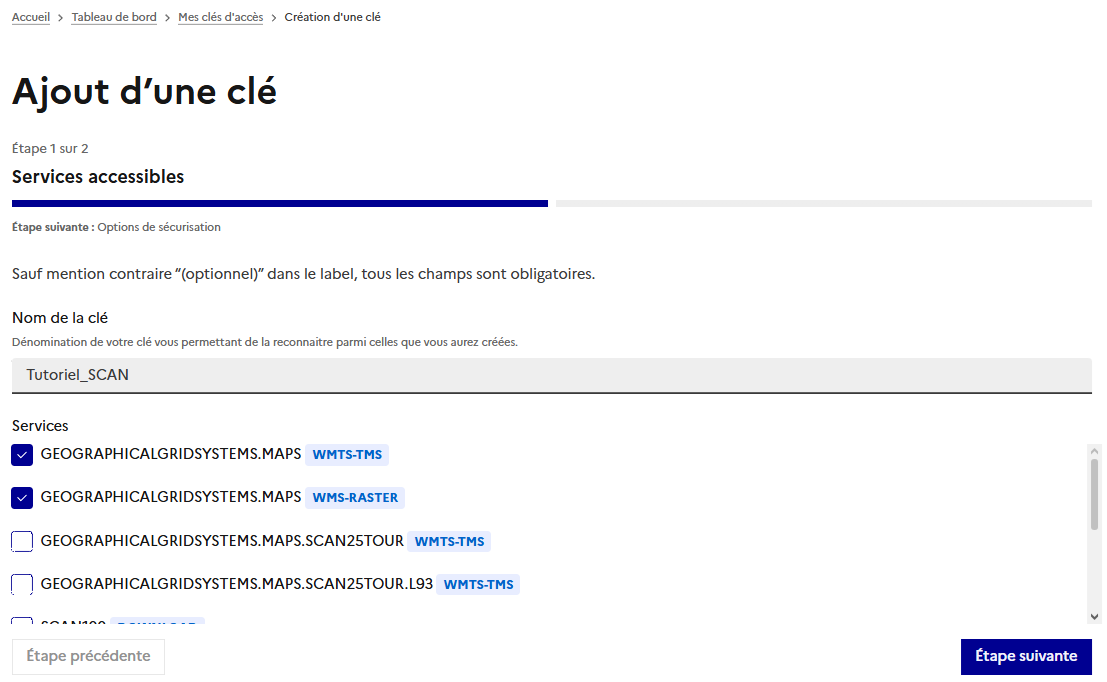
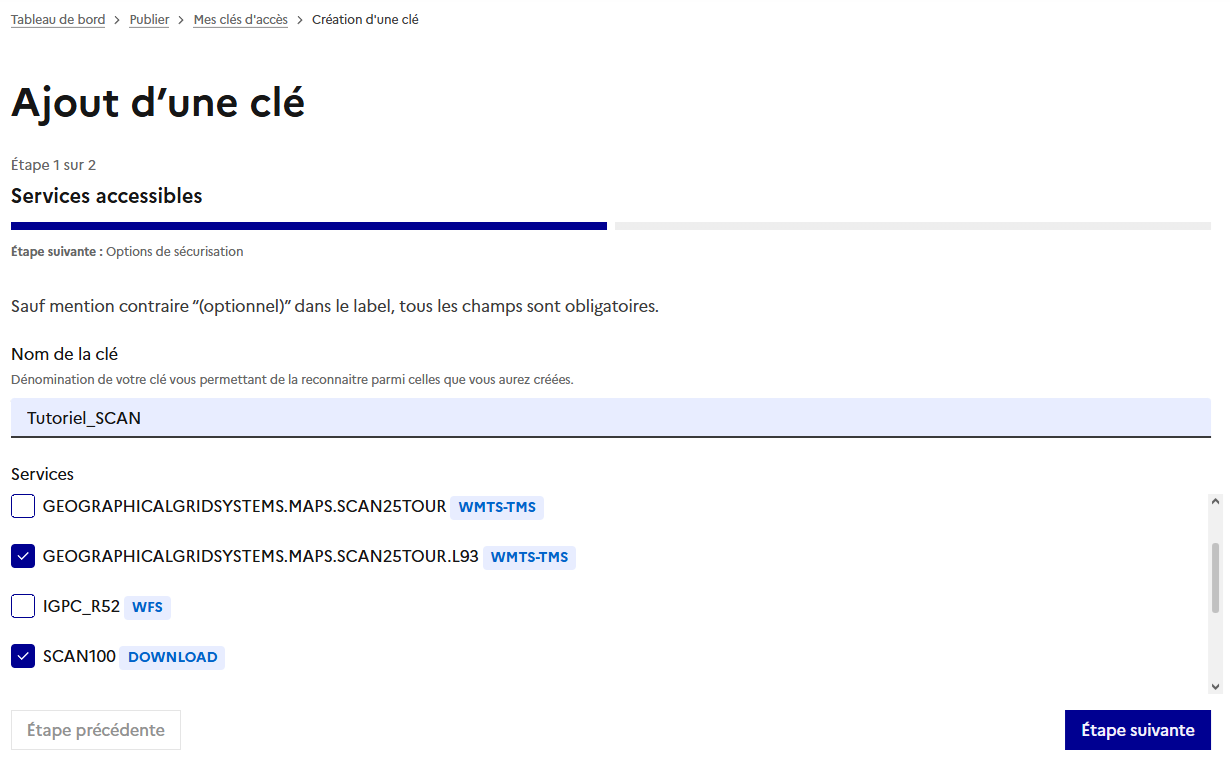
corrections générales (#303)
* corrections générales: tuto SCAN + Convertir un lien issu du Géoportail dans la documentation et la FAQ

* fix: corrections

* fix: titre page 'convertir un lien geoportail'

---------

diff --git a/content/fr/partenaires/ign/representations-cartographiques-souveraines/creation-cles-donnees-scan/hash-acces-donnees-scan.md b/content/fr/partenaires/ign/representations-cartographiques-souveraines/creation-cles-donnees-scan/hash-acces-donnees-scan.md
@@ -12,69 +12,76 @@ pictogram: system/success.svg
 
 #### Création d’une clé HASH
 
-Depuis **Mes clés d’accès**, cliquez sur l’icône bleue **« Créer une clé d’accès »**.
+Depuis **« Mes clés d’accès »**, cliquez sur l’icône bleue **« Créer une clé d’accès »**.
 
 ![Créer une clé d’accès](/img/partenaires/ign/representations-cartographiques-souveraines/creation-cles-donnees-scan/hash-acces-donnees-scan/01_creer-cle-acces.png){.fr-responsive-img .frx-border-img .frx-img-contained}
 
 Dans cette première étape obligatoire, saisissez un nom explicite dans le champ **« Nom de la clé »**.
-Cochez ensuite la case correspondant à la ressource que vous souhaitez rendre accessible avec cette clé.
+Cochez ensuite la case correspondant à la ressource que vous souhaitez rendre accessible avec cette clé. Pour le téléchargement, veillez à sélectionner la ressource avec **« DOWNLOAD »** en surbrillance.
 
 ![Services accessibles](/img/partenaires/ign/representations-cartographiques-souveraines/creation-cles-donnees-scan/hash-acces-donnees-scan/02_services-accessibles.png){.fr-responsive-img .frx-border-img .frx-img-contained}
 
-Dans la seconde étape, sélectionnez **HASH**.
-Ce mécanisme génère une **chaîne de caractères** à intégrer dans l’en-tête de l’appel, pour un usage en **application web** ou dans un **SIG**.
+Dans la seconde étape, sélectionnez **<span lang="en">_HASH_</span>**. Ce mécanisme génère une **chaîne de caractères** à intégrer dans l’en-tête de l’appel, pour un usage en **application <span lang="en">_web_</span>** ou dans un **SIG**.
 Cliquez enfin sur **« Ajouter »**.
 
 ![Options de sécurisation](/img/partenaires/ign/representations-cartographiques-souveraines/creation-cles-donnees-scan/hash-acces-donnees-scan/03_options-securisation.png){.fr-responsive-img .frx-border-img .frx-img-contained}
 
-:::info
-Consultez la page dédiée à la [clé HASH](/fr/guides-utilisateur/creation-des-cles-et-integration-sig/creer-une-cle-d-acces/#hash){target="_blank" rel="noopener noreferrer" title="HASH - ouvre une nouvelle fenêtre"} pour en comprendre le fonctionnement. Pour en savoir plus sur les autres types de sécurisation proposés sur cartes.gouv.fr, vous pouvez également consulter ce [tutoriel](/fr/guides-utilisateur/creation-des-cles-et-integration-sig){target="_blank" rel="noopener noreferrer" title="Création et intégration des clés cartes.gouv.fr dans un SIG - ouvre une nouvelle fenêtre"}.
+:::callout
+Consultez la page dédiée à la [clé <span lang="en">_HASH_</span>](/fr/guides-utilisateur/creation-des-cles-et-integration-sig/creer-une-cle-d-acces/#hash){target="_blank" rel="noopener noreferrer" title="HASH - ouvre une nouvelle fenêtre"} pour en comprendre le fonctionnement. Pour en savoir plus sur les autres types de sécurisation proposés sur cartes.gouv.fr, vous pouvez également consulter ce [tutoriel](/fr/guides-utilisateur/creation-des-cles-et-integration-sig){target="_blank" rel="noopener noreferrer" title="Création et intégration des clés cartes.gouv.fr dans un SIG - ouvre une nouvelle fenêtre"}.
 :::
-
-Une fois le tutoriel terminé, votre connexion aux données SCAN sera établie. Pour visualiser la donnée SCAN, il vous suffira de zoomer sur la couche correspondante.
-
-![SCAN 25 Touristique sur QGIS](/img/partenaires/ign/representations-cartographiques-souveraines/creation-cles-donnees-scan/hash-acces-donnees-scan/04_scan25-touristique.png){.fr-responsive-img .frx-border-img .frx-img-contained}
-
 
 #### Services accessibles avec la clé HASH
 
 :::warning
-Une fois votre clé HASH générée, vous accédez à quatre types d’options : trois services de consultation de flux OGC (WMS-R, WMTS, TMS) et un service de téléchargement. La même clé HASH est utilisée pour l’ensemble de ces services.
+Une fois votre clé <span lang="en">_HASH_</span> générée, vous accédez à quatre types d’options : trois services de consultation de flux OGC (<span lang="en">_WMS-Raster_</span>, <span lang="en">_WMTS_</span>, <span lang="en">_TMS_</span>) et un service de téléchargement. La même clé HASH est utilisée pour l’ensemble de ces services.
 :::
-
-![apikey](/img/partenaires/ign/representations-cartographiques-souveraines/creation-cles-donnees-scan/hash-acces-donnees-scan/05_apikey.png){.fr-responsive-img .frx-border-img .frx-img-contained}
-
 
 ##### Données en consultation (flux OGC)
 
-- **WMS-R**
-```plain
-https://data.geopf.fr/private/wms-r/?service=WMS&version=1.3.0&request=GetCapabilities&apikey=[VOTRE CLÉ]
-```
+- **<span lang="en">_WMS-Raster_</span>**
 
-- **WMTS**  
-```plain
-https://data.geopf.fr/private/wmts/?service=WMTS&version=1.0.0&request=GetCapabilities&apikey=[VOTRE CLÉ]
-```
+    ```plain
+    https://data.geopf.fr/private/wms-r/?service=WMS&version=1.3.0&request=GetCapabilities&apikey=[VOTRE CLÉ]
+    ```
 
-- **TMS**
-```plain
-https://data.geopf.fr/private/tms/1.0.0/?apikey=[VOTRE CLÉ]
-```
+- **<span lang="en">_WMTS_</span>**  
+
+    ```plain
+    https://data.geopf.fr/private/wmts/?service=WMTS&version=1.0.0&request=GetCapabilities&apikey=[VOTRE CLÉ]
+    ```
+
+- **<span lang="en">_TMS_</span>**
+
+    ```plain
+    https://data.geopf.fr/private/tms/1.0.0/?apikey=[VOTRE CLÉ]
+    ```
+
+:::info
+Dans le cadre de l’accès aux **données en consultation** (flux <span lang="en">_OGC WMS-Raster_</span>, <span lang="en">_WMTS_</span> et <span lang="en">_TMS_</span>) depuis un SIG (QGIS), reportez-vous à la page dédiée à l’[intégration d’une clé <span lang="en">_HASH_</span>](/fr/guides-utilisateur/creation-des-cles-et-integration-sig/integrer-une-cle-dans-un-sig/#connexion-avec-une-cle-hash){target="_blank" rel="noopener noreferrer" title="Connexion avec une clé HASH - ouvre une nouvelle fenêtre"}.
+:::
 
 ##### Données en téléchargement
 
-Une fois la clé HASH créée, l’URL fournie correspond à un **_<span lang="en">GetCapabilities</span>_**, qui sert uniquement à lister les ressources disponibles. Elle ne permet pas de télécharger des données. Pour en savoir plus sur les méthodes de l’API de téléchargement, consultez la [documentation dédiée](/fr/guides-utilisateur/utiliser-les-services-de-la-geoplateforme/telechargement){target="_blank" rel="noopener noreferrer" title="API de téléchargement - ouvre une nouvelle fenêtre"}.
+Une fois la clé HASH créée, l’<span lang="en">_URL_</span> fournie correspond à un **<span lang="en">_GetCapabilities_</span>**, qui sert uniquement à lister les ressources disponibles. Elle ne permet pas de télécharger des données. Pour en savoir plus sur les méthodes de l’<span lang="en">_API_</span> de téléchargement, consultez la [documentation dédiée](/fr/guides-utilisateur/utiliser-les-services-de-la-geoplateforme/telechargement){target="_blank" rel="noopener noreferrer" title="API de téléchargement - ouvre une nouvelle fenêtre"}.
 
-Pour télécharger les données, veuillez consulter ce [fichier CSV](https://data.geopf.fr/annexes/ressources/documentation/SCANs.csv){target="_blank" rel="noopener noreferrer" title="Méthode Download (TXT) - ouvre une nouvelle fenêtre"}.
+Veuillez consulter ce [fichier <span lang="en">_CSV_</span>](https://data.geopf.fr/annexes/ressources/documentation/SCANs.csv){target="_blank" rel="noopener noreferrer" title="Méthode Download (CSV) - ouvre une nouvelle fenêtre"} qui liste les ressources SCAN disponibles. Chaque ressource peut ensuite être téléchargée en suivant la méthode décrite ci-dessous.
+
+
+![apikey](/img/partenaires/ign/representations-cartographiques-souveraines/creation-cles-donnees-scan/hash-acces-donnees-scan/04_apikey.png){.fr-responsive-img .frx-border-img .frx-img-contained}
+
+
+:::warning
+Pour télécharger une ressource SCAN dans un navigateur <span lang="en">_web_</span>, utilisez l’**<span lang="en">_URL_</span>** ci-dessus en remplaçant **« [VOTRE CLÉ] »** par le **<span lang="en">_HASH_</span>** généré automatiquement dans cartes.gouv.fr. Cette valeur doit être copiée puis collée à la suite de **« apikey= »** dans la barre d’adresse de votre navigateur web.
+:::
+
+![navigateur web](/img/partenaires/ign/representations-cartographiques-souveraines/creation-cles-donnees-scan/hash-acces-donnees-scan/05_navigateur-apikey.png){.fr-responsive-img .frx-border-img .frx-img-contained}
 
 Exemple de requête :
+
 ```plain
-https://data.geopf.fr/private/telechargement/download/SCAN100/SCAN100_2-0__TIFF_LAMB93_D094_2021-11-01/SCAN100_2-0__TIFF_LAMB93_D094_2021-11-01.7z?apikey=[VOTRE CLÉ]
+https://data.geopf.fr/private/telechargement/download/SCAN100/SCAN100_2-0__TIFF_LAMB93_D001_2025-05-01/SCAN100_2-0__TIFF_LAMB93_D001_2025-05-01.7z?apikey=[VOTRE CLÉ]
 ```
 
-![Clé HASH](/img/partenaires/ign/representations-cartographiques-souveraines/creation-cles-donnees-scan/hash-acces-donnees-scan/06_cle-hash.png){.fr-responsive-img .frx-border-img .frx-img-contained}
+Une fois le tutoriel terminé, votre connexion aux données SCAN sera établie. Pour visualiser la donnée SCAN dans un SIG, il vous suffira de zoomer sur la couche correspondante.
 
-:::callout
-Pour vous connecter correctement à un SIG (QGIS), consultez la page dédiée à l’[intégration d’une clé HASH](/fr/guides-utilisateur/creation-des-cles-et-integration-sig/integrer-une-cle-dans-un-sig/#connexion-avec-une-cle-hash){target="_blank" rel="noopener noreferrer" title="Connexion avec une clé HASH - ouvre une nouvelle fenêtre"}.
-:::
+![SCAN 25 Touristique sur QGIS](/img/partenaires/ign/representations-cartographiques-souveraines/creation-cles-donnees-scan/hash-acces-donnees-scan/06_scan25-touristique.png){.fr-responsive-img .frx-border-img .frx-img-contained}

diff --git a/content/fr/partenaires/ign/representations-cartographiques-souveraines/creation-cles-donnees-scan/rejoindre-espace.md b/content/fr/partenaires/ign/representations-cartographiques-souveraines/creation-cles-donnees-scan/rejoindre-espace.md
@@ -11,30 +11,32 @@ Depuis votre **tableau de bord**, cliquez sur **« Mes données »**.
 
 ![Mes données](/img/partenaires/ign/representations-cartographiques-souveraines/creation-cles-donnees-scan/rejoindre-espace/01_mes-donnees.png){.fr-responsive-img .frx-border-img .frx-img-contained}
 
-Cliquez ensuite sur **« Rejoindre un entrepôt »**.
+Cliquez ensuite sur **« Ajouter un entrepôt »**.
 
-![Rejoindre un entrepôt](/img/partenaires/ign/representations-cartographiques-souveraines/creation-cles-donnees-scan/rejoindre-espace/02_rejoindre-entrepot.png){.fr-responsive-img .frx-border-img .frx-img-contained}
+![Ajouter un entrepôt](/img/partenaires/ign/representations-cartographiques-souveraines/creation-cles-donnees-scan/rejoindre-espace/02_ajouter-entrepot.png){.fr-responsive-img .frx-border-img .frx-img-contained}
 
-Dans la liste, repérez **Communauté d’usage des données SCAN 25/100 sous licence** et/ou **Communauté d’usage des données SCAN OACI sous licence**, puis cliquez sur le bouton **« Rejoindre »**.
+Cliquez ensuite sur **« Rejoindre un entrepôt existant »**.
 
-![Rejoindre la communauté](/img/partenaires/ign/representations-cartographiques-souveraines/creation-cles-donnees-scan/rejoindre-espace/03_rejoindre-communaute.png){.fr-responsive-img .frx-border-img .frx-img-contained}
+![Rejoindre un entrepôt existant](/img/partenaires/ign/representations-cartographiques-souveraines/creation-cles-donnees-scan/rejoindre-espace/03_entrepot-existant.png){.fr-responsive-img .frx-border-img .frx-img-contained}
 
-Ci-dessous, nous nous concentrerons sur la **Communauté d’usage des données SCAN 25/100 sous licence**. La démarche est identique pour la **Communauté d’usage des données SCAN OACI sous licence**.
+Dans la liste, repérez **« Communauté d’usage des données SCAN 25/100 sous licence »** et/ou **« Communauté d’usage des données SCAN OACI sous licence »**, puis cliquez sur le bouton **« Rejoindre »**.
 
-Ajoutez un message à votre demande d’adhésion à la communauté. Comme l’accès aux données **SCAN 25/100** et **SCAN OACI** repose sur votre **code SIRET** et **l'adresse** de votre **entreprise** (ou **association**), mentionnez-le dans ce message.
+![Rejoindre la communauté](/img/partenaires/ign/representations-cartographiques-souveraines/creation-cles-donnees-scan/rejoindre-espace/04_rejoindre-communaute.png){.fr-responsive-img .frx-border-img .frx-img-contained}
 
-![Message optionnel](/img/partenaires/ign/representations-cartographiques-souveraines/creation-cles-donnees-scan/rejoindre-espace/04_message-optionnel.png){.fr-responsive-img .frx-border-img .frx-img-contained}
+Ci-dessous, nous nous concentrerons sur la **« Communauté d’usage des données SCAN 25/100 sous licence »**. La démarche est identique pour la **« Communauté d’usage des données SCAN OACI sous licence »**.
 
-Votre demande est ensuite examinée par les équipes de l’IGN. Un accusé de réception vous est envoyé par courriel. Vérifiez également votre dossier de courriers indésirables.
+![Message optionnel](/img/partenaires/ign/representations-cartographiques-souveraines/creation-cles-donnees-scan/rejoindre-espace/05_message-optionnel.png){.fr-responsive-img .frx-border-img .frx-img-contained}
 
-![Demande envoyée](/img/partenaires/ign/representations-cartographiques-souveraines/creation-cles-donnees-scan/rejoindre-espace/05_demande-envoyee.png){.fr-responsive-img .frx-border-img .frx-img-contained}
+Votre demande est ensuite examinée par les équipes de l’IGN. Un **accusé de réception** vous est envoyé par courriel. Vérifiez également votre dossier de courriers indésirables.
 
-Après validation de votre demande, vous recevez un second courriel d’accueil dans la communauté de la part des équipes IGN.
+![Demande envoyée](/img/partenaires/ign/representations-cartographiques-souveraines/creation-cles-donnees-scan/rejoindre-espace/06_demande-envoyee.png){.fr-responsive-img .frx-border-img .frx-img-contained}
+
+Après validation de votre demande, vous recevez un **second courriel d’accueil** dans la communauté de la part des équipes IGN.
 
 Pour afficher l’ensemble des données de la **« Communauté d’usage des données SCAN 25/100 sous licence »**, cliquez sur l’icône bleue **« Mes clés d’accès »** dans le tableau de bord.
 
-![Mes clés d’accès](/img/partenaires/ign/representations-cartographiques-souveraines/creation-cles-donnees-scan/rejoindre-espace/06_mes-cles-acces.png){.fr-responsive-img .frx-border-img .frx-img-contained}
+![Mes clés d’accès](/img/partenaires/ign/representations-cartographiques-souveraines/creation-cles-donnees-scan/rejoindre-espace/07_mes-cles-acces.png){.fr-responsive-img .frx-border-img .frx-img-contained}
 
-Rendez-vous ensuite dans **Mes permissions**. La liste des ressources pour un usage **professionnel** ou **associatif** des données **SCAN 25®** et **SCAN 100®** s’affiche.
+Rendez-vous ensuite dans **« Mes permissions »**. La liste des ressources pour un usage **professionnel** ou **associatif** des données **SCAN 25®** et **SCAN 100®** s’affiche.
 
-![Permissions actives](/img/partenaires/ign/representations-cartographiques-souveraines/creation-cles-donnees-scan/rejoindre-espace/07_permissions-actives.png){.fr-responsive-img .frx-border-img .frx-img-contained}
+![Permissions actives](/img/partenaires/ign/representations-cartographiques-souveraines/creation-cles-donnees-scan/rejoindre-espace/08_permissions-actives.png){.fr-responsive-img .frx-border-img .frx-img-contained}

diff --git a/content/fr/guides-utilisateur/visualiseur-cartographique/convertir-un-lien-geoportail.md b/content/fr/guides-utilisateur/visualiseur-cartographique/convertir-un-lien-geoportail.md
@@ -1,0 +1,31 @@
+---
+title: Convertir un lien Géoportail
+tags:
+    - iframe
+    - Convertir
+    - Permalien
+eleventyNavigation:
+    key: Convertir un lien Géoportail
+    order: 7
+pictogram: map/backpack.svg
+---
+
+Vous avez inséré sur votre site une carte créée sur le Géoportail ou partagé une donnée via un lien (permalien) ? Pour garantir la pérennité de ces accès, vous devez les rendre compatibles avec cartes.gouv.fr.
+
+Le convertisseur de permaliens est un outil simple qui permet de convertir vos anciens liens en quelques secondes.
+
+**Comment faire ?**
+1. Récupérez votre lien Géoportail actuel ou le code « &lt;iframe&gt; » présent sur votre site.
+2. Rendez-vous sur : [https://ignf.github.io/permalink-converter](https://ignf.github.io/permalink-converter){target="_blank" rel="noopener noreferrer" title="Convertir un lien Géoportail - ouvre une nouvelle fenêtre"}.
+3. Collez votre élément dans le champ prévu à cet effet.
+4. Cliquez sur « Convertir » : vous obtenez immédiatement votre nouveau lien ou code d’intégration.
+
+<br>
+
+**Exemple de lien pris en charge :**
+
+```plain
+https://www.geoportail.gouv.fr/carte?c=2.765163483556678,48.41229536131638&z=12&l0=GEOGRAPHICALGRIDSYSTEMS.PLANIGNV2::GEOPORTAIL:OGC:WMTS(1)&d1=4762965(1;h)&v2=PLAN.IGN::GEOPORTAIL:GPP:TMS(0.71;s:standard)&l3=ORTHOIMAGERY.ORTHOPHOTOS::GEOPORTAIL:OGC:WMTS(0.55)&permalink=yes
+```
+
+Cette conversion vers le format cartes.gouv.fr est disponible depuis janvier 2026. Nous vous invitons à effectuer cette mise à jour dès maintenant.
